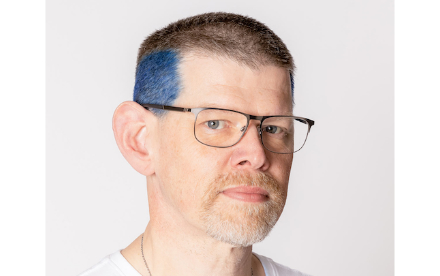
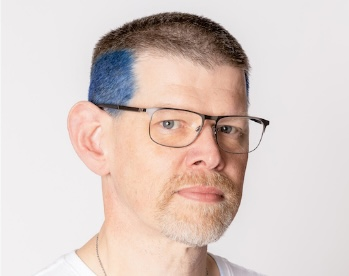
Draft release
Update Website with new content - waiting on full quality images for some team members

diff --git a/index.html b/index.html
@@ -43,9 +43,10 @@
 			<section id="location" class="main style2 right fullscreen">
 				<div class="content box-dark style2">
 					<header>
-						<h2>Who</h2>
+						<h1>Who</h1>
 					</header>
-					<p>We are a company which sets about to research and develop open source automated insulin delivery solutions for people with diabetes for as many people as many possible.</p>
+					<p>Imagine never counting carbs, announcing food, or constantly monitoring your glucose</p>
+					<p>Biomed’s adaptive Automated Insulin Delivery technology is designed to reduce the daily burden of diabetes management while helping people stay informed, confident, and in control.</p>
 				</div>
 				<a href="#about" class="button style2 down anchored">Next</a>
 			</section>
@@ -54,9 +55,9 @@
 			<section id="about" class="main style2 right dark fullscreen">
 				<div class="content box style2">
 					<header>
-						<h2>About</h2>
+						<h1>About</h1>
 					</header>
-					<p>Launched from the successes of running the reference design algorithm successfully in multiple clincal trials globally. We develop and research automated insulin delivery apps and algorithms.</p>
+					<p>Built on clinically validated research and open-source innovation, our systems minimise the mental load of diabetes management while improving confidence, control, and quality of life. Our platform shifts diabetes management away from rigid, device-centric automation and toward empowered human agency – giving users continuous awareness without constant action.</p>
 				</div>
 				<a href="#team" class="button style2 down anchored">Next</a>T
 			</section>
@@ -65,7 +66,7 @@
 			<section id="team" class="main style3 primary">
 				<div class="content">
 					<header>
-						<h2>The Team</h2>
+						<h1>The Team</h1>
 					</header>
 
 					<!-- Gallery  -->
@@ -73,17 +74,35 @@
 							<article class="from-left">
 								<a href="images/fulls/davidburren.png" class="image fit"><img src="images/thumbs/davidburren.jpg" title="David Burren" alt="David Burren Image" /></a>
 							</article>
-							<article class="from-right">
-								<a href="images/fulls/timgunn.jpeg" class="image fit"><img src="images/thumbs/timgunn.jpg" title="Tim Gunn" alt="Tim Gunn Image" /></a>
-							</article>
 						</div>
-						<h3>David Burren</h3>
-						<p>Careers in software development, IT systems management, and photography.
-Team member of Baker AID study.</p>
+						<h2>David Burren</h2>
+						<h4>Co-founder</h4>
+						<p>David brings extensive experience across software development, systems management, and open-source diabetes innovation. As a core contributor to advanced AID development and a team member of the Baker AID and CLOSE-IT studies, David is focused on building flexible, evidence-backed technology that makes diabetes management easier and more intuitive</p>
+						<div class="gallery">
+    						<article class="from-right">
+    							<a href="images/fulls/timgunn.jpeg" class="image fit"><img src="images/thumbs/timgunn.jpg" title="Tim Gunn" alt="Tim Gunn Image" /></a>
+    						</article>
+                        </div>
+						<h2>Tim Gunn</h2>
+						<h4>Co-founder</h4>
+						<p>With a background in software engineering, systems administration, and healthcare technology, Tim is passionate about improving health outcomes through intuitive diabetes innovation. A contributor to the CREATE Study and open-source AID development, Tim helps drive Nascence’s vision of confident, life-aware diabetes management.</p>
+						<div class="gallery">
+    						<article class="from-left">
+    							<a href="images/fulls/gracewalker.jpeg" class="image fit"><img src="images/thumbs/gracewalker.jpeg" title="Grace Walker" alt="Grace Walker Image" /></a>
+    						</article>
+                        </div>
+						<h2>Grace Walker</h2>
+						<p>Dr Grace is a data scientist and medtech founder focused on intuitive diabetes technology and community-led health innovation. She brings expertise in data analysis, regulatory strategy, and using technology to improve health outcomes.</p>
+						<div class="gallery">
+    						<article class="from-left">
+    							<a href="images/fulls/natashamandie.jpg" class="image fit"><img src="images/thumbs/natashamandie.jpg" title="Natasha Mandie" alt="Natasha Mandie Image" /></a>
+    						</article>
+                        </div>
+						<h2>Natasha Mandie</h2>
+						<p>Natasha is a corporate advisor and investment banking specialist with over 25 years’ experience across technology, capital raising, and strategic growth. Chair of the Board, she supports Nascence Biomed’s commercialisation pathway, partnerships, and long-term growth through her deep expertise in healthcare and innovation-focused transactions.</p>
 
-						<h3>Tim Gunn</h3>
-						<p>Bachelors of Information Technology, Careers in Software Development, Systems & Networking Administration & Engineering. Open Source Developer. Passionate about Healthcare and Information Technology to bring better health outcomes.
-Team member CREATE study.</p>
+
+
 
 				</div>
 			</section>
@@ -93,16 +112,25 @@ Team member CREATE study.</p>
 						<header>
 							<h2>FAQS</h2>
 						</header>
+						<h3>What makes Nascence different?</h3>
+						<p>Nascence is focused on adaptive, autonomous insulin delivery designed for real-world living. Our approach prioritises ease of use, predictive support, and reduced daily burden while maintaining user confidence and control.</p>
+
+						<h3>Is Nascence's products commercially available?</h3>
+						<p>Nascence Biomed is currently progressing through clinical development and commercialisation pathways, with ongoing work focused on regulatory approval and broader accessibility.</p>
+
 						<h3>What is automated insulin delivery?</h3>
 <p>Automated insulin delivery (AID), another name for the technology used in an ‘artificial pancreas system’ (APS), integrates an insulin pump and a continuous glucose monitor with an algorithm to automatically adjust insulin delivery in real time.</p>
 <h3>What about Autonomous Auotmated Insulin Delivery?</h3>
 <p>Autonomous Automated Insulin Delivery (AAID) is level of AID that achieves the outcomes of AID without the declaration of food or the need for manual bolusing.</p
-																					  
+
 <h3>What is DIY AID?</h3>
 <p>A do-it-yourself artificial automated insulin system. These have been created by people affected by type one diabetes and made available, via open-source software and online support groups.</p>
 
 <h3>What is OpenAPS?</h3>
 <p>The first DIY AID System to have been developed. It has been written by people affected by diabetes with the aim of improving safety, glycaemic control and quality of life. See <a href="https://openaps.org/">https://openaps.org</a></p>
+
+<h3>Is the technoligy clincaly tested?</h3>
+<p>Yes. Nascence technology is built on multiple clinical studies conducted across New Zealand and Australia, including collaborations with leading diabetes research institutions.</p>
 
 <h3>What is sensor-augmented pump therapy? (SAPT)</h3>
 <p>Sensor-augmented pump therapy is the use of a continuous glucose monitor alongside an insulin pump for managing type one diabetes. It is the current standard of care that outcomes from automated insulin delivery trials are most commonly compared to. The main difference is that in SAPT there is no algorithm driving adjustments of insulin delivery; the person with type 1 diabetes does all insulin dosing adjustments manually.</p>